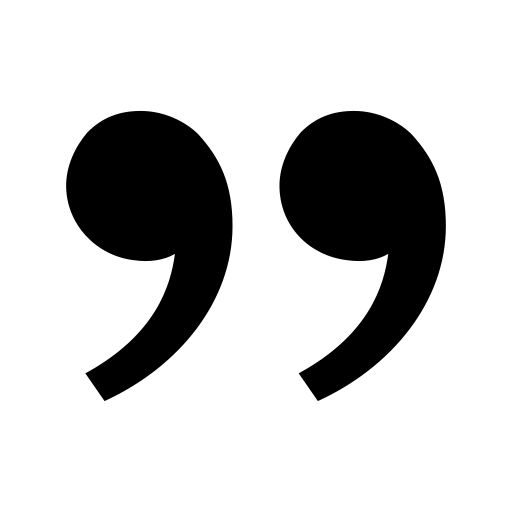
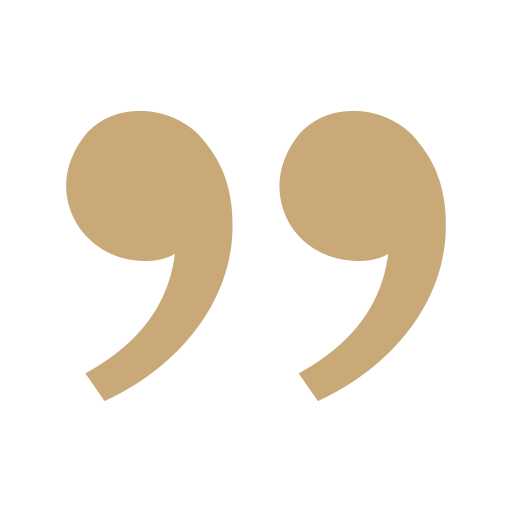
all page theme updated

Changed region(s): [[0.5312, 0.2188, 0.875, 0.7812], [0.125, 0.2188, 0.4688, 0.7812]]

diff --git a/app/about/page.js b/app/about/page.js
@@ -22,7 +22,7 @@ export default function AboutPage() {
   return (
     <div className="min-h-screen">
       {/* About Company Section */}
-      <section className="bg-white py-24 h-screen flex items-center justify-center">
+      <section className="bg-lawas-heading py-24 h-screen flex items-center justify-center">
         <div className="container mx-auto px-4 sm:px-6 lg:px-8">
           <motion.div
             className="mx-auto max-w-3xl text-center"
@@ -30,10 +30,10 @@ export default function AboutPage() {
             animate={{ opacity: 1, y: 0 }}
             transition={{ duration: 0.8 }}
           >
-            <h1 className="mb-6 text-4xl font-bold text-lawas-heading sm:text-5xl">
+            <h1 className="mb-6 text-4xl font-bold text-lawas-accent sm:text-5xl">
               About LawAS Legal
             </h1>
-            <p className="mb-8 text-lg text-lawas-body">
+            <p className="mb-8 text-lg text-white">
             LawAS Legal is a dynamic and experienced law firm rapidly expanding across India, with a strong reputation for handling complex legal matters in corporate, commercial, dispute resolution, real estate, energy and infrastructure, arbitration. It aims to serve a diverse range of clients, from small businesses to large corporations, with tailored legal solutions for it's clients . Focused on strategic growth, the firm is handling matters across the country, leveraging technology, and maintaining a client-centric approach to deliver high-quality services. It's commitment to professionalism, integrity, and excellence positions it as a future national leader in the legal field.
             </p>
           </motion.div>
@@ -41,7 +41,7 @@ export default function AboutPage() {
       </section>
 
       {/* Partners Section */}
-      <section id="partners-section" className="bg-lawas-light py-24">
+      <section id="partners-section" className="bg-lawas-heading py-24">
         <div className="container mx-auto px-4 sm:px-6 lg:px-8">
           <motion.div
             className="mx-auto max-w-5xl"
@@ -50,7 +50,7 @@ export default function AboutPage() {
             transition={{ duration: 0.8 }}
             viewport={{ once: true }}
           >
-            <h2 className="mb-12 text-center text-3xl font-bold text-lawas-heading sm:text-4xl">
+            <h2 className="mb-12 text-center text-3xl font-bold text-lawas-accent sm:text-4xl">
               Our Partners
             </h2>
             <div className="grid gap-12 md:grid-cols-2">
@@ -71,13 +71,13 @@ export default function AboutPage() {
                       className="object-cover"
                     />
                   </div>
-                  <h3 className="mb-2 text-xl font-semibold text-lawas-heading">
+                  <h3 className="mb-2 text-xl font-semibold text-lawas-accent">
                     {partner.name}
                   </h3>
-                  <p className="mb-4 text-lawas-body">
+                  <p className="mb-4 text-white">
                     {partner.role}
                   </p>
-                  <p className="text-lawas-body">
+                  <p className="text-white">
                     {partner.bio}
                   </p>
                 </motion.div>
@@ -88,7 +88,7 @@ export default function AboutPage() {
       </section>
 
       {/* Vision Section */}
-      <section className="bg-white py-24">
+      <section className="bg-lawas-heading py-24">
         <div className="container mx-auto px-4 sm:px-6 lg:px-8">
           <motion.div
             className="mx-auto max-w-3xl text-center"
@@ -97,7 +97,7 @@ export default function AboutPage() {
             transition={{ duration: 0.8 }}
             viewport={{ once: true }}
           >
-            <h2 className="mb-6 text-3xl font-bold text-lawas-heading sm:text-4xl">
+            <h2 className="mb-6 text-3xl font-bold text-lawas-accent sm:text-4xl">
               Our Vision
             </h2>
             <br />
@@ -105,15 +105,15 @@ export default function AboutPage() {
               {/* Opening Quote Image */}
               <div className="absolute -left-2 sm:-left-8 -top-6 sm:-top-8">
                 <Image
-                  src="/images/quote.png"
+                  src="/images/quotes.png"
                   alt="Opening quote"
                   width={40}
                   height={40}
-                  className="opacity-20 sm:w-[60px] sm:h-[60px]"
+                  className="opacity-50 sm:w-[60px] sm:h-[60px]"
                 />
               </div>
               
-              <p className="text-lg text-lawas-body px-8 sm:px-12 pt-4">
+              <p className="text-lg text-white px-8 sm:px-12 pt-4">
                 To become a leading and trusted law firm recognized for our unwavering commitment to excellence, integrity, and client-centered solutions. We aspire to provide innovative, effective legal counsel across diverse industries, building long-lasting relationships based on trust, professionalism, and results. By leveraging our deep expertise, cutting-edge technology, and a personalized approach, we aim to be the preferred choice for clients seeking strategic guidance, problem-solving, and unmatched legal representation. Through our dedication to continuous growth and service excellence, we strive to not only meet but exceed our clients' expectations, shaping a future where justice and business success go hand in hand.
               </p>
 
@@ -124,7 +124,7 @@ export default function AboutPage() {
                   alt="Closing quote"
                   width={40}
                   height={40}
-                  className="opacity-20 sm:w-[60px] sm:h-[60px]"
+                  className="opacity-50 sm:w-[60px] sm:h-[60px]"
                 />
               </div>
             </div>

diff --git a/app/practice-areas/page.js b/app/practice-areas/page.js
@@ -67,7 +67,7 @@ export default function PracticeAreasPage() {
   ]
 
   return (
-    <div className="min-h-screen bg-white py-24">
+    <div className="min-h-screen bg-lawas-heading py-24">
       <div className="container mx-auto px-4 sm:px-6 lg:px-8">
         <motion.div
           className="mx-auto max-w-3xl text-center"
@@ -75,10 +75,10 @@ export default function PracticeAreasPage() {
           animate={{ opacity: 1, y: 0 }}
           transition={{ duration: 0.8 }}
         >
-          <h1 className="mb-6 text-4xl font-bold text-lawas-heading sm:text-5xl">
+          <h1 className="mb-6 text-4xl font-bold text-lawas-accent sm:text-5xl">
             Practice Areas
           </h1>
-          <p className="mb-16 text-lg text-lawas-body">
+          <p className="mb-16 text-lg text-white">
             Our firm offers expertise across a wide range of legal practice areas, providing comprehensive solutions tailored to your specific needs.
           </p>
         </motion.div>
@@ -90,35 +90,23 @@ export default function PracticeAreasPage() {
           transition={{ duration: 0.8, delay: 0.2 }}
         >
           {practiceAreas.map((area, index) => (
-            <motion.div
-              key={area.title}
-              className="rounded-lg bg-lawas-light p-8 shadow-lg"
-              initial={{ opacity: 0, y: 20 }}
-              whileInView={{ opacity: 1, y: 0 }}
-              transition={{ duration: 0.8, delay: index * 0.1 }}
-              viewport={{ once: true }}
-            >
-              <h2 className="mb-4 text-2xl font-bold text-lawas-heading">
+            <div key={area.title} className="rounded-lg bg-white/10 p-8 backdrop-blur-sm">
+              <h2 className="mb-4 text-2xl font-bold text-lawas-accent">
                 {area.title}
               </h2>
-              <p className="mb-6 text-lawas-body">
+              <p className="mb-6 text-white">
                 {area.description}
               </p>
               {area.services.length > 0 && (
-                <>
-                  <h3 className="mb-3 text-lg font-semibold text-lawas-heading">
-                    Our Services:
-                  </h3>
-                  <ul className="list-inside list-disc space-y-2 text-lawas-body">
-                    {area.services.map((service, idx) => (
-                      <li key={idx} className="ml-4">
-                        {service}
-                      </li>
-                    ))}
-                  </ul>
-                </>
+                <ul className="list-disc pl-6 space-y-2">
+                  {area.services.map((service, serviceIndex) => (
+                    <li key={serviceIndex} className="text-white">
+                      {service}
+                    </li>
+                  ))}
+                </ul>
               )}
-            </motion.div>
+            </div>
           ))}
         </motion.div>
       </div>

diff --git a/components/sections/Hero.jsx b/components/sections/Hero.jsx
@@ -65,7 +65,7 @@ export default function Hero() {
           <div className="animate-fade-in">
             <Button 
               size="lg"
-              className="bg-lawas-button text-white hover:bg-lawas-button/90"
+              className="bg-lawas-accent text-white hover:bg-lawas-accent/90"
               onClick={handleKnowMoreClick}
             >
               Know More

diff --git a/components/sections/AboutPreview.jsx b/components/sections/AboutPreview.jsx
@@ -47,7 +47,7 @@ export default function AboutPreview() {
             <Link href="/about">
               <Button 
                 size="lg"
-                className="bg-lawas-button text-white hover:bg-lawas-button/90"
+                className="bg-lawas-accent text-white hover:bg-lawas-accent/90"
               >
                 Learn More About Us
               </Button>

diff --git a/components/sections/VideoSection.jsx b/components/sections/VideoSection.jsx
@@ -28,7 +28,6 @@ export default function VideoSection() {
       {/* Video Background */}
       <div className={`absolute inset-0 transition-opacity duration-500`}>
         <video 
-          controls
           preload="auto"
           autoPlay
           loop
